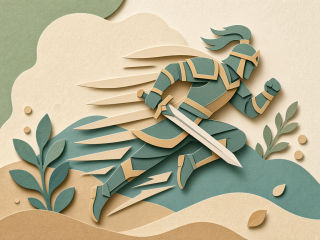
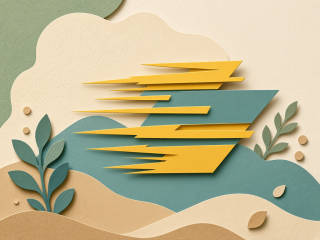
無属性カードの絵と名前を、どのキャラにも寄らないものにする。

diff --git a/src/data/cards.ts b/src/data/cards.ts
@@ -138,7 +138,7 @@ export const CRIMSON_STARTER_DECK: CardDefinition[] = [
 export const REWARD_CARDS: CardDefinition[] = [
   {
     id: 'twin-strike',
-    name: '双撃',
+    name: '二連打',
     rarity: 'common',
     type: 'attack',
     archetypes: ['strength', 'element'],
@@ -200,7 +200,7 @@ export const REWARD_CARDS: CardDefinition[] = [
   },
   {
     id: 'clothesline',
-    name: '剛腕撃',
+    name: '重圧',
     rarity: 'common',
     type: 'attack',
     archetypes: ['debuff'],
@@ -253,7 +253,7 @@ export const REWARD_CARDS: CardDefinition[] = [
   },
   {
     id: 'cleave',
-    name: '薙ぎ払い',
+    name: '広打ち',
     rarity: 'common',
     type: 'attack',
     cost: 1,
@@ -329,7 +329,7 @@ export const REWARD_CARDS: CardDefinition[] = [
   },
   {
     id: 'seeing-red',
-    name: '闘志',
+    name: '高ぶり',
     rarity: 'uncommon',
     type: 'skill',
     archetypes: ['strength'],
@@ -454,7 +454,7 @@ export const REWARD_CARDS: CardDefinition[] = [
   },
   {
     id: 'uppercut',
-    name: '粉砕撃',
+    name: '砕き',
     rarity: 'uncommon',
     type: 'attack',
     archetypes: ['debuff'],
@@ -1008,7 +1008,7 @@ export const REWARD_CARDS: CardDefinition[] = [
   },
   {
     id: 'cataclysm',
-    name: '破局の一閃',
+    name: '畳みかけ',
     rarity: 'uncommon',
     type: 'attack',
     archetypes: ['tempo'],
@@ -1020,7 +1020,7 @@ export const REWARD_CARDS: CardDefinition[] = [
   },
   {
     id: 'ashen-tempest',
-    name: '灰燼の嵐',
+    name: '散る渦',
     rarity: 'rare',
     type: 'attack',
     archetypes: ['tempo', 'sacrifice'],

diff --git a/src/data/runSetups.ts b/src/data/runSetups.ts
@@ -20,7 +20,7 @@ import { VERDANT_CARDS, VERDANT_STARTER_DECK } from './verdantCards';
 
 /**
  * 報酬に出るカードは「共通の無属性カード」+「そのキャラの属性のカード」。
- * 無属性は 3 人とも同じ集合（2026-10-21。剣・盾は火属性。強打・剛腕撃・粉砕撃・力みは共通）。
+ * 無属性は 3 人とも同じ集合（2026-10-21。剣・盾は火属性。強打・重圧・砕き・力みは共通）。
  * 2026-10-07 時点では各 38 種、共通 8 種。2026-10-08 にブロックを足した。
  * リーネのブロックは蔦の受け・年輪の盾・葉の番え・鞭の牽制・樹皮の衣・茨返し・根の打ち据え。
  * 2026-10-10 のノアは印のカード。波はブロック軸ではなく波の印なので、盾のフィルタには掛からない。
@@ -30,7 +30,7 @@ const ALL_REWARD_CARDS = [...REWARD_CARDS, ...VERDANT_CARDS, ...MIRROR_CARDS];
 
 /**
  * どのキャラの戦闘報酬にも出る無属性。剣・盾はここへ入れず、火属性にする。
- * 強打・剛腕撃・粉砕撃・力みはデバフと筋力の入口なので、2026-10-21 から 3 人共通。
+ * 強打・重圧・砕き・力みはデバフと筋力の入口なので、2026-10-21 から 3 人共通。
  */
 const SHARED_NEUTRAL_CARD_IDS: ReadonlySet<string> = new Set([
   'twin-strike',

diff --git a/src/data/synergyCards.ts b/src/data/synergyCards.ts
@@ -50,7 +50,7 @@ export const SYNERGY_CARDS: CardDefinition[] = [
   },
   {
     id: 'scatter-blade',
-    name: '散札の刃',
+    name: '飛び札',
     rarity: 'common',
     type: 'attack',
     archetypes: ['tempo'],
@@ -70,7 +70,7 @@ export const SYNERGY_CARDS: CardDefinition[] = [
   },
   {
     id: 'offer-ember',
-    name: '捧げる炎',
+    name: '手放し',
     rarity: 'common',
     type: 'skill',
     archetypes: ['tempo', 'sacrifice'],
@@ -89,7 +89,7 @@ export const SYNERGY_CARDS: CardDefinition[] = [
   },
   {
     id: 'ashen-rite',
-    name: '灰の儀式',
+    name: '消しの儀式',
     rarity: 'uncommon',
     type: 'skill',
     archetypes: ['tempo', 'sacrifice'],
@@ -110,7 +110,7 @@ export const SYNERGY_CARDS: CardDefinition[] = [
   },
   {
     id: 'skill-follow',
-    name: '構えからの一閃',
+    name: '継ぎ打ち',
     rarity: 'uncommon',
     type: 'attack',
     archetypes: ['tempo'],
@@ -150,7 +150,7 @@ export const SYNERGY_CARDS: CardDefinition[] = [
   },
   {
     id: 'cinder-form',
-    name: '燃え殻の誓い',
+    name: '消え際の誓い',
     rarity: 'rare',
     type: 'power',
     archetypes: ['tempo', 'sacrifice'],

diff --git a/src/data/glossary.ts b/src/data/glossary.ts
@@ -316,7 +316,7 @@ export const KEYWORDS: Record<KeywordId, KeywordDefinition> = {
     name: '連閃',
     icon: '⚔',
     description:
-      '同じ攻撃の 2 ヒット目から、1 ヒットごとにその数値のダメージが加わる。1 ヒットだけの攻撃には乗らない。双撃・旋風・連矢のような多段攻撃で伸びる。',
+      '同じ攻撃の 2 ヒット目から、1 ヒットごとにその数値のダメージが加わる。1 ヒットだけの攻撃には乗らない。二連打・旋風・連矢のような多段攻撃で伸びる。',
   },
   lashSeed: {
     id: 'lashSeed',

diff --git a/docs/KNOWLEDGE.md b/docs/KNOWLEDGE.md
@@ -1236,6 +1236,12 @@
 - 「立ち去る」は出さない。どれか一つの選択肢を選ぶ。どれも選べないときだけ、先へ進める。
 - 選択肢を決めたあとは、カードを選ぶ画面でも結末でも、選択肢の画面には戻れない。カードを足す・強化する・消す・印を書く出来事は、受け取らずには抜けられない。
 
+### 無属性の絵と名前を中立にする（2026-10-25）
+
+- 3 人共通の無属性のうち、剣・炎・鎧・特定の人物に見える絵を、紙工作の衝撃・石・札・渦に描き直した。
+- 名前も合わせた。双撃は二連打、薙ぎ払いは広打ち、剛腕撃は重圧、粉砕撃は砕き、闘志は高ぶり、破局の一閃は畳みかけ、灰燼の嵐は散る渦。散札の刃は飛び札、捧げる炎は手放し、灰の儀式は消しの儀式、構えからの一閃は継ぎ打ち、燃え殻の誓いは消え際の誓い。
+- 強打・つけ込む・急所蹴り・弱点看破・勢いの型は名前のまま、絵だけ中立にした。効果とカード id は変えていない。雷鳴・連閃の型・足払い・力みなど、もともと中立な絵はそのまま。
+
 ## 9. 未解決の課題・既知の問題
 
 - ~~カード追加フォームがゲームの流れと合っていない~~（2026-10-03 トラッカー廃止により解消）
